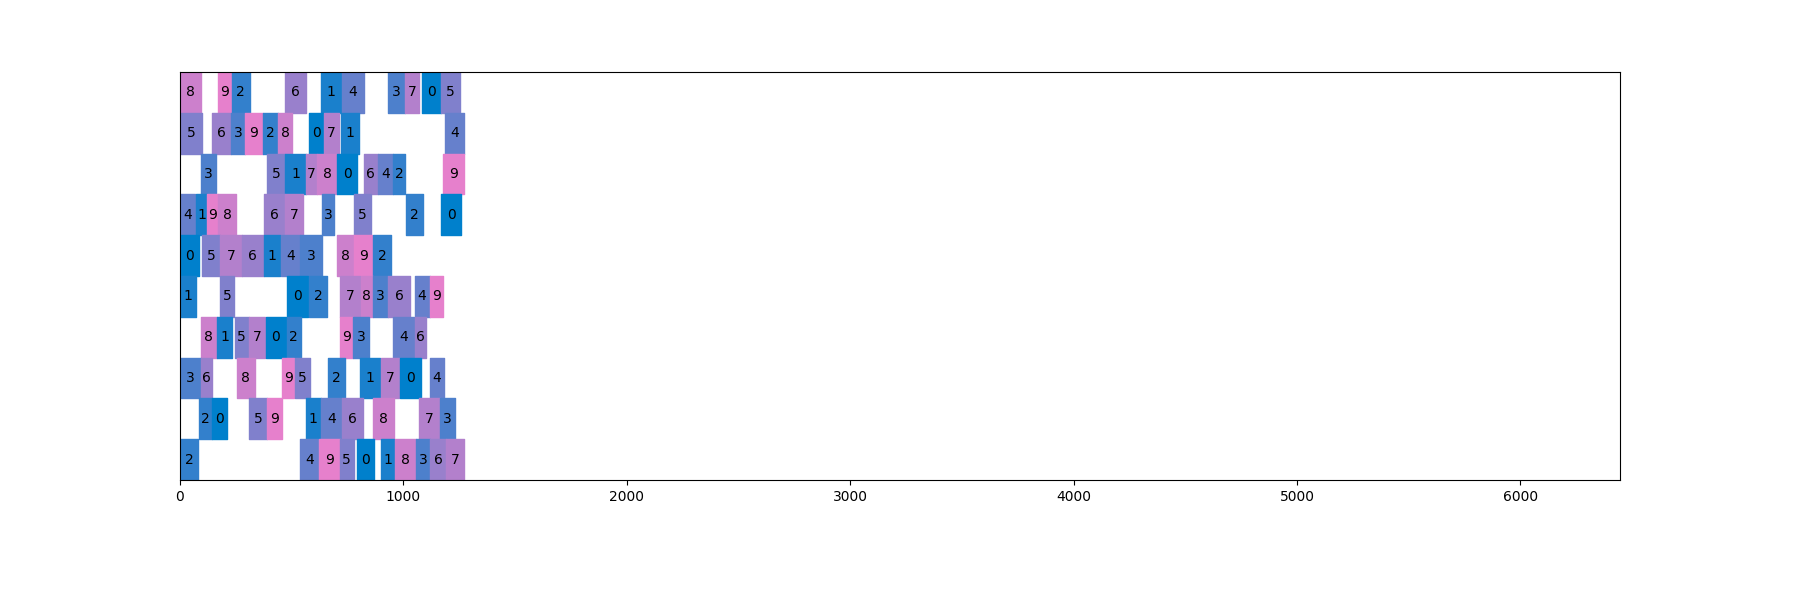
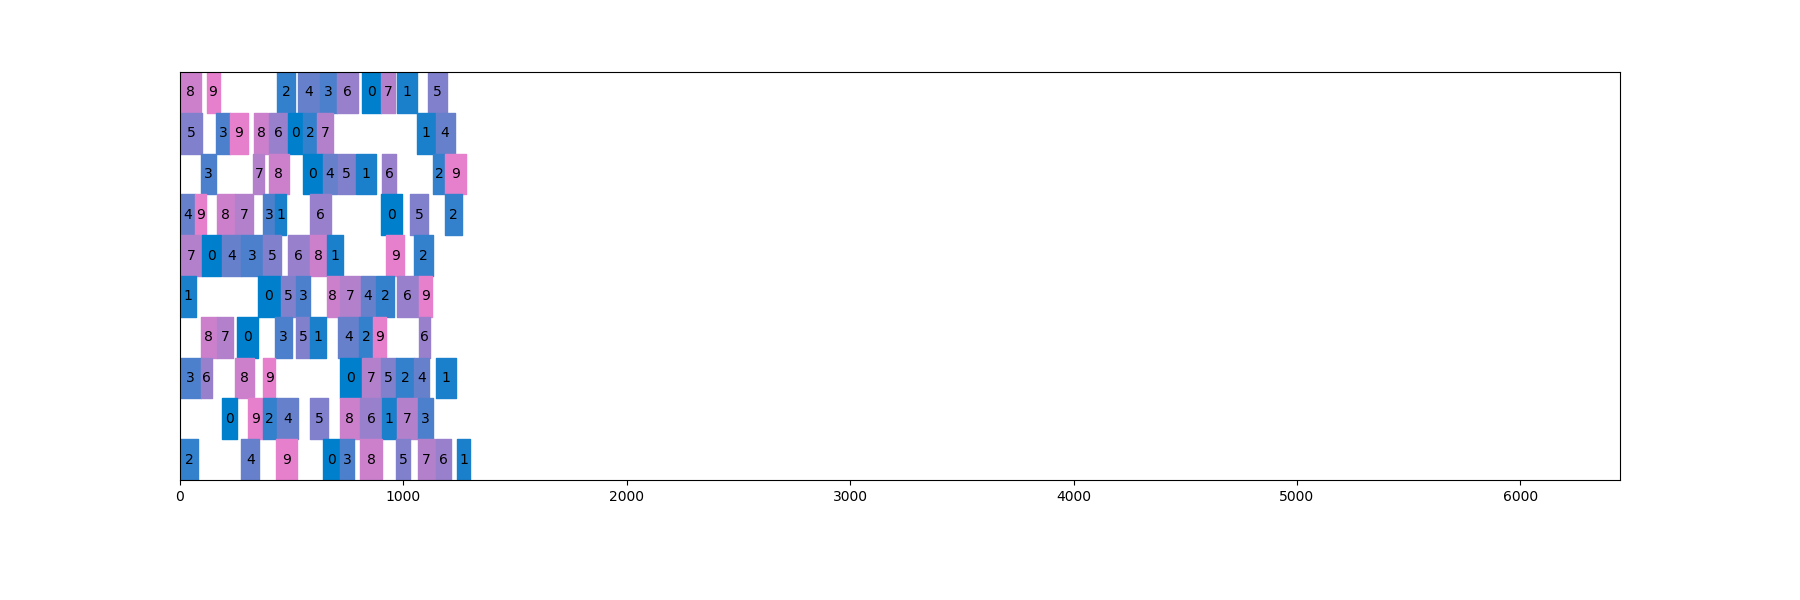
fixed mutiple figure issue: clear buffer

Changed region(s): [[0.0933, 0.12, 0.28, 0.81], [0.7156, 0.81, 0.7467, 0.84]]

diff --git a/scheduler.py b/scheduler.py
@@ -413,6 +413,7 @@ class Visualizator():
                     last_col = col
                 else:
                     print("---------------------")
+        
         plt.ylim(10,0)
         plt.xlim(0,self.total_time)
         
@@ -420,8 +421,10 @@ class Visualizator():
         #next_plot_button = Button(ax = next_plot_button_axe, label = "next iteration")
         
         plt.savefig("./image/"+str(self.iteration_index)+".png")
+        plt.close()
         #pickle.dump(ax, open("./image/"+str(self.iteration_index) + ".pickle",'wb'))
         #plt.show()
+        
 
 class ButtonDisplayer:
     def __init__(self, dir_name):
@@ -476,16 +479,16 @@ def main():
     #opt_v = Visualizator(opt.get_schedule().scheduleDict, opt.make_span(), 2)
     #opt_v.plot()
 
-    test_v = Visualizator(ts.get_schedule().scheduleDict, ts.make_span(), 0)
-    test_v.plot()
+    test_v1 = Visualizator(ts.get_schedule().scheduleDict, ts.make_span(), 0)
+    test_v1.plot()
     
 
-    print("Score: {}".format(ts.make_span()))
+    #print("Score: {}".format(ts.make_span()))
     opt = SimulatedAnnealingOptimizer(3000, ts, 8000, shuffleing=2500, cooling_rate=0.999).optimize()
     print("Score: {}".format(opt.make_span()))
 
-    test_v = Visualizator(opt.get_schedule().scheduleDict, ts.make_span(), 1)
-    test_v.plot()
+    test_v2 = Visualizator(opt.get_schedule().scheduleDict, ts.make_span(), 1)
+    test_v2.plot()
     
     bp = ButtonDisplayer("./image")
     bp.display()
